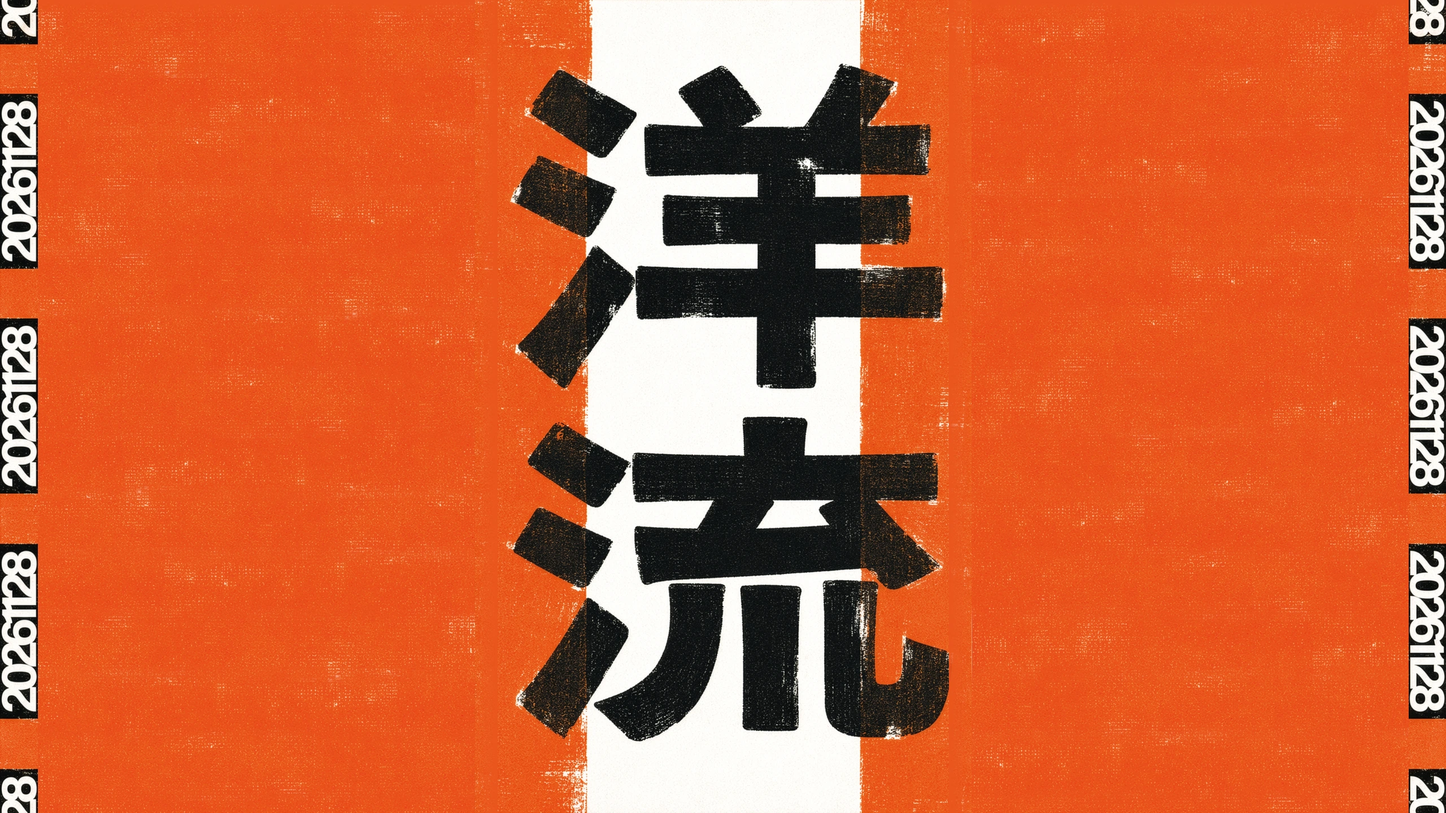
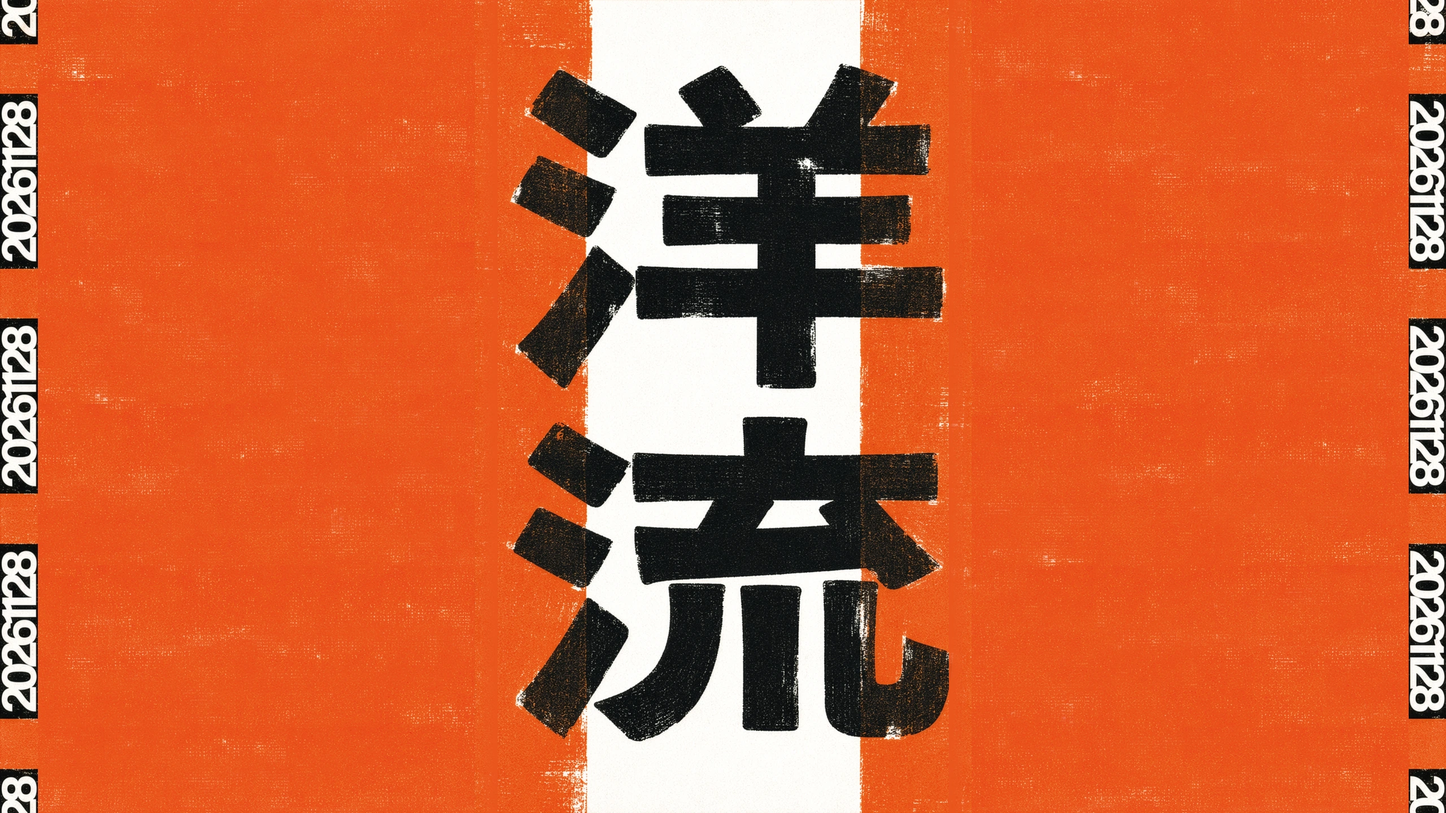
Add a 5120x1440 poster wallpaper; rebuild the poster fill with soft patches
The orange outside the print is now built from many four-side feathered
patches of the sheet's own texture instead of hard-edged rows, so no join
or tonal band survives even across the wide 32:9 fields. README explains
how Omarchy crops a 16:9 image on an ultrawide and how to pick this file.

diff --git a/README.md b/README.md
@@ -45,7 +45,18 @@ omarchy theme bg next              # 切換兩張桌布
 | | |
 |---|---|
 | ![poster](backgrounds/1-poster.webp) | ![banner](backgrounds/2-banner.webp) |
-| **1-poster**：直式完稿的構圖。白帶居中、洋流兩字直排、橘底在兩側、左右外緣保留 20261128 日期條。16:9 多出來的橘底是用橫式完稿裡沒有文字的兩段橘色版面拼成，羽化重疊、同一縮放比例，印刷顆粒紋理與原稿一致。 | **2-banner**：橫式完稿本身。只抽掉文字上下各一段純橘版面湊成 16:9，上下日期條與洋流兩字完整保留。 |
+| **1-poster**（另有 5120x1440 的 **3-poster-ultrawide**）：直式完稿的構圖。白帶居中、洋流兩字直排、橘底在兩側、左右外緣保留 20261128 日期條。16:9 多出來的橘底是用橫式完稿裡沒有文字的兩段橘色版面拼成，羽化重疊、同一縮放比例，印刷顆粒紋理與原稿一致。 | **2-banner**：橫式完稿本身。只抽掉文字上下各一段純橘版面湊成 16:9，上下日期條與洋流兩字完整保留。 |
+
+### 超寬螢幕（32:9）
+
+Omarchy 以「保持比例、裁切填滿」的方式鋪桌布，16:9 的圖在 5120x1440 螢幕上會被裁掉上下、洋流兩字被切到。
+超寬螢幕請改用 `3-poster-ultrawide.webp`（5120x1440，兩側橘底以同一套印刷紋理延伸）：
+
+```bash
+omarchy theme bg set ~/.config/omarchy/themes/taipei-current/backgrounds/3-poster-ultrawide.webp
+```
+
+橫幅版沒有 32:9 版本：原稿的洋流兩字左右都出血裁到紙邊，往兩側延伸會露出被截斷的筆畫。
 
 ## Palette
 
